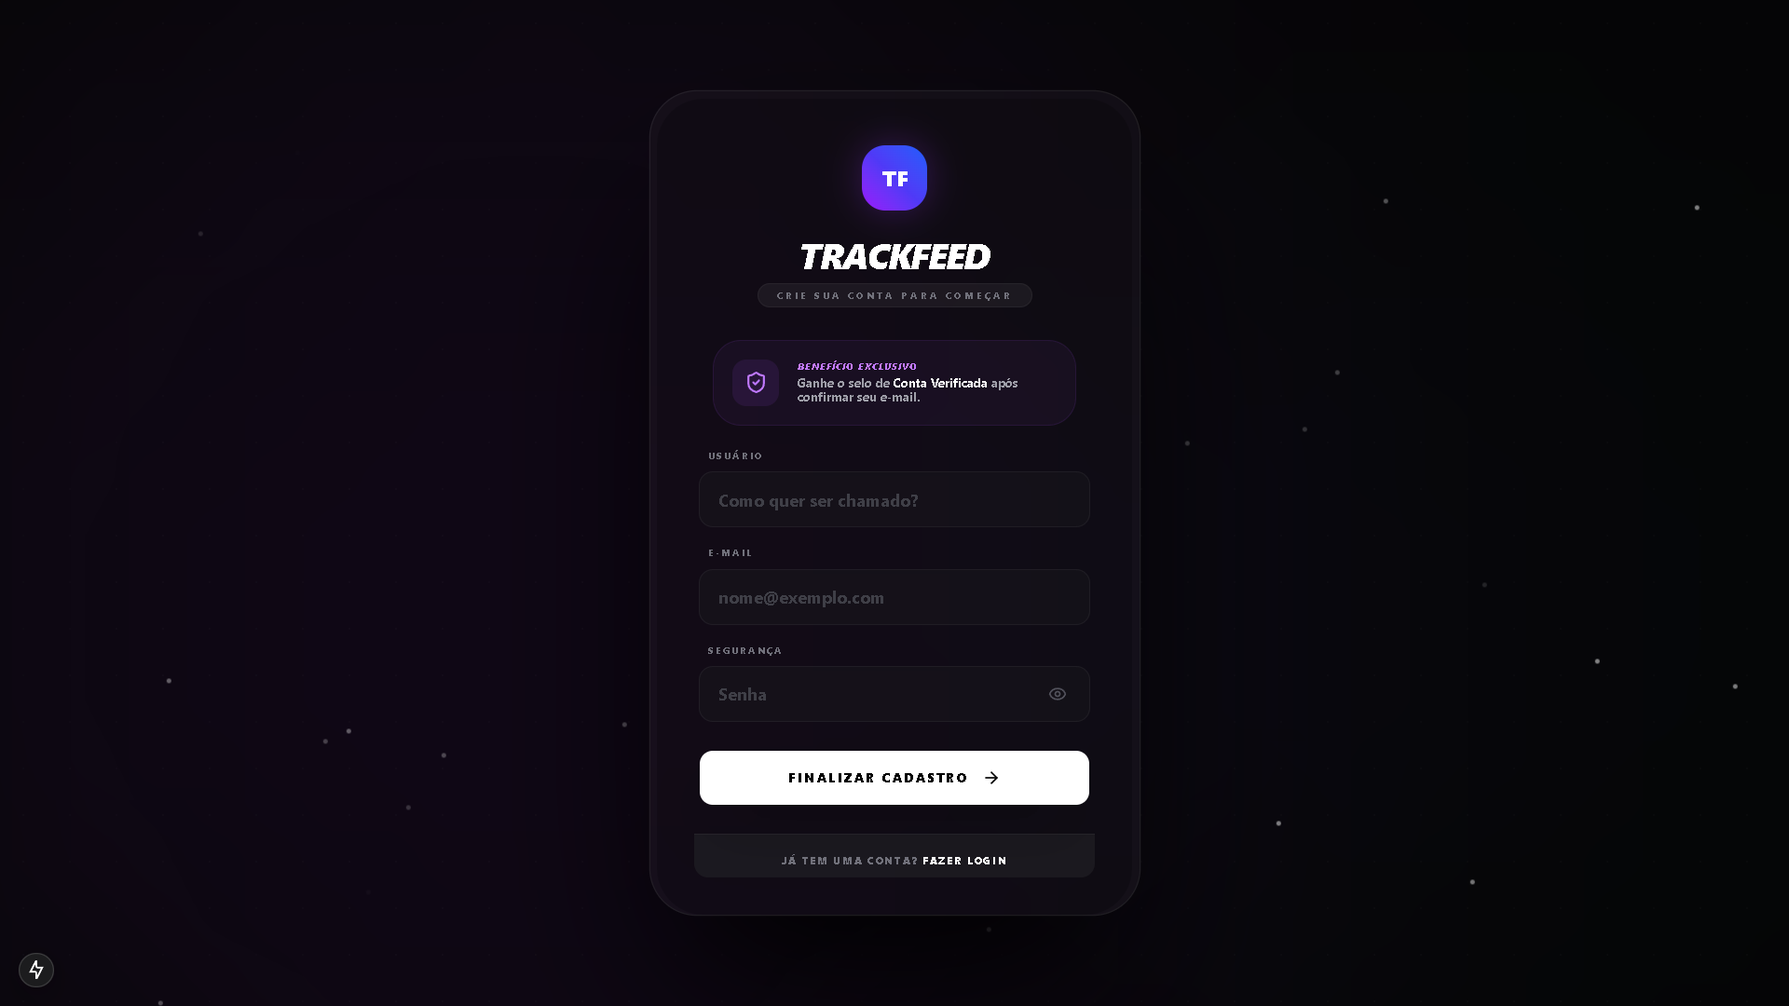
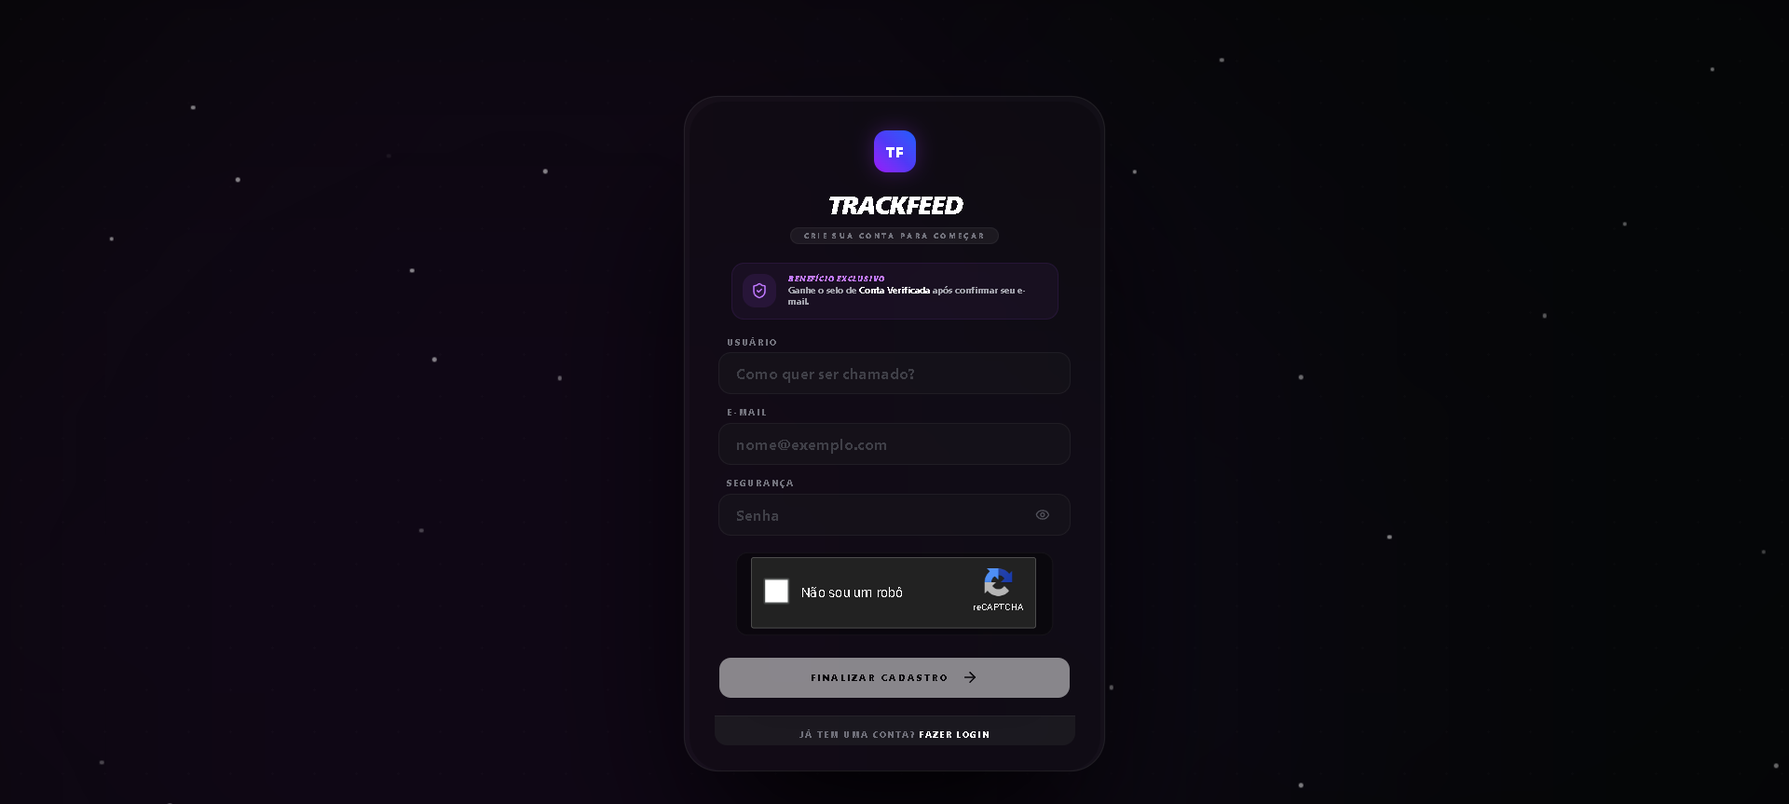
feat: TrackFeed v2.0 — reCAPTCHA responsivo, UX slim e persistência de grid
- [Forms] Compacta UI de Login e Cadastro para caber 100% na viewport sem scroll.
- [Segurança] Aplica escala global no iframe do reCAPTCHA evitando corte do botão "Verificar".
- [Feed] Resolve bug de reset de paginação ao favoritar, mantendo linhas do grid expandidas ativas via useRef.
- [Docs] Limpa assets obsoletos (usuario1.png) e atualiza prints no README.

diff --git a/src/app/register/page.tsx b/src/app/register/page.tsx
@@ -39,7 +39,7 @@ export default function RegisterPage() {
   const SITE_KEY = process.env.NEXT_PUBLIC_RECAPTCHA_SITE_KEY || "";
 
   return (
-    <div className="flex min-h-screen items-center justify-center bg-[#050505] p-6 relative overflow-hidden selection:bg-purple-500/30">
+    <div className="flex h-screen items-center justify-center bg-[#050505] p-6 relative overflow-hidden selection:bg-purple-500/30">
       <div className="fixed inset-0 bg-noise opacity-[0.03] pointer-events-none z-[100]" />
       
       {/* Cinematic Background */}
@@ -58,78 +58,78 @@ export default function RegisterPage() {
         <ThemeToggle />
       </div>
 
-      <Card className="w-full max-w-[420px] border-white/5 bg-white/[0.03] backdrop-blur-[60px] text-foreground relative z-10 shadow-[0_80px_150px_-30px_rgba(0,0,0,1)] rounded-[2.5rem] overflow-hidden border-t-white/10 p-1.5">
-        <div className="bg-black/20 rounded-[inherit] p-6 lg:p-8">
-          <CardHeader className="space-y-4 text-center pt-2 pb-5">
+      <Card className="w-full max-w-[400px] border-white/5 bg-white/[0.03] backdrop-blur-[60px] text-foreground relative z-10 shadow-[0_80px_150px_-30px_rgba(0,0,0,1)] rounded-[2rem] border-t-white/10 p-1">
+        <div className="bg-black/20 rounded-[inherit] p-5 lg:p-6">
+          <CardHeader className="space-y-2.5 text-center pt-1 pb-4">
             <div className="flex justify-center">
-              <div className="h-14 w-14 rounded-[1.25rem] bg-gradient-to-tr from-purple-600 via-indigo-600 to-blue-600 flex items-center justify-center font-black text-lg text-white shadow-[0_0_30px_rgba(147,51,234,0.3)]">
+              <div className="h-10 w-10 rounded-xl bg-gradient-to-tr from-purple-600 via-indigo-600 to-blue-600 flex items-center justify-center font-black text-sm text-white shadow-[0_0_20px_rgba(147,51,234,0.3)]">
                 TF
               </div>
             </div>
-            <div className="space-y-1">
-              <CardTitle className="text-3xl font-black tracking-tighter uppercase italic text-white">TrackFeed</CardTitle>
-              <CardDescription className="text-zinc-500 font-black uppercase text-[8px] tracking-[0.3em] bg-white/5 py-1 rounded-full border border-white/5 px-4 inline-block mx-auto">
+            <div className="space-y-0.5">
+              <CardTitle className="text-2xl font-black tracking-tighter uppercase italic text-white">TrackFeed</CardTitle>
+              <CardDescription className="text-zinc-500 font-black uppercase text-[7px] tracking-[0.3em] bg-white/5 py-0.5 rounded-full border border-white/5 px-3 inline-block mx-auto">
                 Crie sua conta para começar
               </CardDescription>
             </div>
             
             {/* INFORMATIVO DE VERIFICAÇÃO */}
-            <div className="mt-2 p-4 bg-purple-500/5 border border-purple-500/10 rounded-[1.5rem] flex items-center gap-4 animate-in fade-in slide-in-from-top-2 duration-1000">
-              <div className="h-10 w-10 rounded-xl bg-purple-500/10 flex items-center justify-center text-purple-400 shrink-0">
-                <ShieldCheck size={20} />
+            <div className="mt-1 p-2.5 bg-purple-500/5 border border-purple-500/10 rounded-xl flex items-center gap-3 animate-in fade-in slide-in-from-top-2 duration-1000">
+              <div className="h-8 w-8 rounded-lg bg-purple-500/10 flex items-center justify-center text-purple-400 shrink-0">
+                <ShieldCheck size={16} />
               </div>
               <div className="text-left">
-                <p className="text-[8px] font-black text-purple-400 uppercase tracking-widest leading-none mb-1 italic">Benefício exclusivo</p>
-                <p className="text-[10px] text-zinc-400 font-bold leading-tight">Ganhe o selo de <span className="text-white">Conta Verificada</span> após confirmar seu e-mail.</p>
+                <p className="text-[7px] font-black text-purple-400 uppercase tracking-widest leading-none mb-0.5 italic">Benefício exclusivo</p>
+                <p className="text-[9px] text-zinc-400 font-bold leading-tight">Ganhe o selo de <span className="text-white">Conta Verificada</span> após confirmar seu e-mail.</p>
               </div>
             </div>
           </CardHeader>
           
-          <form action={formAction} className="space-y-4 px-1">
+          <form action={formAction} className="space-y-3 px-1">
             {state?.error && (
-              <div className="flex items-center gap-3 p-4 text-[9px] font-black uppercase tracking-widest text-red-400 bg-red-500/10 border border-red-500/20 rounded-xl animate-in fade-in slide-in-from-top-4 italic">
-                <AlertCircle size={16} />
+              <div className="flex items-center gap-3 p-3 text-[9px] font-black uppercase tracking-widest text-red-400 bg-red-500/10 border border-red-500/20 rounded-xl animate-in fade-in slide-in-from-top-4 italic">
+                <AlertCircle size={14} />
                 {state.error}
               </div>
             )}
 
-            <div className="space-y-2 group">
+            <div className="space-y-1 group">
               <Label className="text-zinc-500 font-black uppercase text-[8px] tracking-[0.2em] px-2 group-focus-within:text-purple-400 transition-all">Usuário</Label>
               <Input 
                 id="name" name="name" type="text" 
                 defaultValue={state?.name || ""}
                 placeholder="Como quer ser chamado?" required 
-                className="h-12 bg-white/[0.03] border-white/5 text-white focus-visible:ring-purple-500/30 rounded-xl text-xs font-bold placeholder:text-zinc-700 transition-all shadow-inner px-4" 
+                className="h-10 bg-white/[0.03] border-white/5 text-white focus-visible:ring-purple-500/30 rounded-xl text-xs font-bold placeholder:text-zinc-700 transition-all shadow-inner px-4" 
               />
             </div>
 
-            <div className="space-y-2 group">
+            <div className="space-y-1 group">
               <Label className="text-zinc-500 font-black uppercase text-[8px] tracking-[0.2em] px-2 group-focus-within:text-purple-400 transition-all">E-mail</Label>
               <Input 
                 id="email" name="email" type="email" 
                 value={email}
                 onChange={(e) => setEmail(e.target.value)}
                 placeholder="nome@exemplo.com" required 
-                className="h-12 bg-white/[0.03] border-white/5 text-white focus-visible:ring-purple-500/30 rounded-xl text-xs font-bold placeholder:text-zinc-700 transition-all shadow-inner px-4" 
+                className="h-10 bg-white/[0.03] border-white/5 text-white focus-visible:ring-purple-500/30 rounded-xl text-xs font-bold placeholder:text-zinc-700 transition-all shadow-inner px-4" 
               />
             </div>
             
-            <div className="space-y-2 group">
+            <div className="space-y-1 group">
               <Label className="text-zinc-500 font-black uppercase text-[8px] tracking-[0.2em] px-2 group-focus-within:text-purple-400 transition-all">Segurança</Label>
               <div className="relative">
                 <Input 
                   id="password" name="password" type={showPassword ? "text" : "password"} required
                   placeholder="Senha"
-                  className="peer h-12 bg-white/[0.03] border-white/5 text-white focus-visible:ring-purple-500/30 pr-12 rounded-xl text-xs font-bold placeholder:text-zinc-700 transition-all shadow-inner px-4" 
+                  className="peer h-10 bg-white/[0.03] border-white/5 text-white focus-visible:ring-purple-500/30 pr-12 rounded-xl text-xs font-bold placeholder:text-zinc-700 transition-all shadow-inner px-4" 
                 />
                 <button type="button" onClick={() => setShowPassword(!showPassword)} className="absolute right-4 top-1/2 -translate-y-1/2 text-zinc-600 hover:text-white transition-all active:scale-90 outline-none p-1">
-                  {showPassword ? <EyeOff size={16} /> : <Eye size={16} />}
+                  {showPassword ? <EyeOff size={14} /> : <Eye size={14} />}
                 </button>
               </div>
             </div>
 
             {process.env.NODE_ENV === "production" && SITE_KEY && (
-              <div className="flex justify-center py-1.5 scale-90 select-none overflow-hidden rounded-xl bg-black/40 p-3 border border-white/5">
+              <div className="flex justify-center py-1 scale-90 select-none overflow-hidden rounded-xl bg-black/40 p-2 border border-white/5">
                 <ReCAPTCHA sitekey={SITE_KEY} onChange={(token) => setCaptchaToken(token)} theme="dark" />
                 <input type="hidden" name="g-recaptcha-response" value={captchaToken || ""} />
               </div>
@@ -138,17 +138,17 @@ export default function RegisterPage() {
             <Button 
               type="submit" 
               disabled={isPending || (process.env.NODE_ENV === "production" && SITE_KEY && !captchaToken)}
-              className="w-full h-12 bg-white text-black hover:bg-purple-600 hover:text-white font-black uppercase text-[10px] tracking-[0.2em] shadow-2xl transition-all hover:scale-[1.02] active:scale-95 disabled:opacity-50 rounded-xl group overflow-hidden mt-2"
+              className="w-full h-10 bg-white text-black hover:bg-purple-600 hover:text-white font-black uppercase text-[9px] tracking-[0.2em] shadow-2xl transition-all hover:scale-[1.02] active:scale-95 disabled:opacity-50 rounded-xl group overflow-hidden mt-1"
             >
               <div className="flex items-center gap-3">
                 <span>{isPending ? "Criando..." : "Finalizar Cadastro"}</span>
-                <ArrowRight size={16} className="transition-transform group-hover:translate-x-1" />
+                <ArrowRight size={14} className="transition-transform group-hover:translate-x-1" />
               </div>
             </Button>
           </form>
 
-          <CardFooter className="flex flex-col space-y-3 text-center mt-6 pt-4 border-t border-white/5 px-0 pb-2">
-            <p className="text-zinc-500 text-[9px] font-black uppercase tracking-[0.15em]">
+          <CardFooter className="flex flex-col space-y-3 text-center mt-4 pt-3 border-t border-white/5 px-0 pb-1">
+            <p className="text-zinc-500 text-[8px] font-black uppercase tracking-[0.15em]">
               Já tem uma conta?{" "}
               <Link href="/" className="text-white hover:text-purple-400 font-black transition-all hover:underline underline-offset-4">
                 Fazer Login

diff --git a/src/app/page.tsx b/src/app/page.tsx
@@ -41,7 +41,7 @@ function LoginContent() {
   const SITE_KEY = process.env.NEXT_PUBLIC_RECAPTCHA_SITE_KEY || "";
 
   return (
-    <div className="flex min-h-screen items-center justify-center bg-[#050505] p-6 relative overflow-hidden selection:bg-purple-500/30">
+    <div className="flex h-screen items-center justify-center bg-[#050505] p-6 relative overflow-hidden selection:bg-purple-500/30">
       <div className="fixed inset-0 bg-noise opacity-[0.03] pointer-events-none z-[100]" />
       
       {/* Cinematic Background */}
@@ -60,48 +60,48 @@ function LoginContent() {
         <ThemeToggle />
       </div>
 
-      <Card className="w-full max-w-[420px] border-white/5 bg-white/[0.03] backdrop-blur-[60px] text-foreground relative z-10 shadow-[0_80px_150px_-30px_rgba(0,0,0,1)] rounded-[2.5rem] overflow-hidden border-t-white/10 p-1.5">
-        <div className="bg-black/20 rounded-[inherit] p-6 lg:p-8">
-          <CardHeader className="space-y-4 text-center pt-2 pb-6">
+      <Card className="w-full max-w-[400px] border-white/5 bg-white/[0.03] backdrop-blur-[60px] text-foreground relative z-10 shadow-[0_80px_150px_-30px_rgba(0,0,0,1)] rounded-[2rem] border-t-white/10 p-1">
+        <div className="bg-black/20 rounded-[inherit] p-5 lg:p-6">
+          <CardHeader className="space-y-2.5 text-center pt-1 pb-4">
             <div className="flex justify-center">
-              <div className="h-14 w-14 rounded-[1.25rem] bg-gradient-to-tr from-purple-600 via-indigo-600 to-blue-600 flex items-center justify-center font-black text-lg text-white shadow-[0_0_30px_rgba(147,51,234,0.3)] animate-in zoom-in duration-1000">
+              <div className="h-10 w-10 rounded-xl bg-gradient-to-tr from-purple-600 via-indigo-600 to-blue-600 flex items-center justify-center font-black text-sm text-white shadow-[0_0_20px_rgba(147,51,234,0.3)] animate-in zoom-in duration-1000">
                 TF
               </div>
             </div>
-            <div className="space-y-1">
-              <CardTitle className="text-3xl font-black tracking-tighter uppercase italic text-white">TrackFeed</CardTitle>
-              <div className="flex items-center justify-center gap-2 text-[8px] font-black uppercase tracking-[0.3em] text-zinc-500">
-                <ShieldCheck size={12} className="text-purple-500" /> Secure Immersive Access
+            <div className="space-y-0.5">
+              <CardTitle className="text-2xl font-black tracking-tighter uppercase italic text-white">TrackFeed</CardTitle>
+              <div className="flex items-center justify-center gap-2 text-[7px] font-black uppercase tracking-[0.3em] text-zinc-500">
+                <ShieldCheck size={10} className="text-purple-500" /> Secure Immersive Access
               </div>
             </div>
           </CardHeader>
           
-          <form action={formAction} className="space-y-5">
+          <form action={formAction} className="space-y-3">
             {errorParam === "db_connection" && (
-              <div className="flex items-center gap-3 p-4 text-[9px] font-black uppercase tracking-widest text-amber-400 bg-amber-500/10 border border-amber-500/20 rounded-xl animate-in fade-in slide-in-from-top-4 italic">
-                <AlertCircle size={16} />
+              <div className="flex items-center gap-3 p-3 text-[9px] font-black uppercase tracking-widest text-amber-400 bg-amber-500/10 border border-amber-500/20 rounded-xl animate-in fade-in slide-in-from-top-4 italic">
+                <AlertCircle size={14} />
                 FALHA DE CONEXÃO: O Banco de Dados não respondeu a tempo. Tente novamente.
               </div>
             )}
 
             {state?.error && (
-              <div className="flex items-center gap-3 p-4 text-[9px] font-black uppercase tracking-widest text-red-400 bg-red-500/10 border border-red-500/20 rounded-xl animate-in fade-in slide-in-from-top-4 italic">
-                <AlertCircle size={16} />
+              <div className="flex items-center gap-3 p-3 text-[9px] font-black uppercase tracking-widest text-red-400 bg-red-500/10 border border-red-500/20 rounded-xl animate-in fade-in slide-in-from-top-4 italic">
+                <AlertCircle size={14} />
                 {state.error}
               </div>
             )}
 
-            <div className="space-y-2 group">
+            <div className="space-y-1 group">
               <Label className="text-zinc-500 font-black uppercase text-[8px] tracking-[0.2em] px-2 group-focus-within:text-purple-400 transition-all">Credenciais</Label>
               <Input 
                 id="identifier" name="identifier" type="text" 
                 defaultValue={state?.identifier || ""}
                 placeholder="E-mail ou Usuário" required 
-                className="h-12 bg-white/[0.03] border-white/5 text-white focus-visible:ring-purple-500/30 rounded-xl text-xs font-bold placeholder:text-zinc-700 transition-all shadow-inner px-4" 
+                className="h-10 bg-white/[0.03] border-white/5 text-white focus-visible:ring-purple-500/30 rounded-xl text-xs font-bold placeholder:text-zinc-700 transition-all shadow-inner px-4" 
               />
             </div>
             
-            <div className="space-y-2 group">
+            <div className="space-y-1 group">
               <div className="flex items-center justify-between px-2">
                 <Label className="text-zinc-500 font-black uppercase text-[8px] tracking-[0.2em] group-focus-within:text-purple-400 transition-all">Segurança</Label>
                 <Link href="/forgot-password" size="sm" className="text-[8px] font-black text-zinc-600 hover:text-white transition-all uppercase tracking-widest">Esqueceu?</Link>
@@ -110,16 +110,16 @@ function LoginContent() {
                 <Input 
                   id="password" name="password" type={showPassword ? "text" : "password"} required
                   placeholder="Sua senha secreta"
-                  className="peer h-12 bg-white/[0.03] border-white/5 text-white focus-visible:ring-purple-500/30 pr-12 rounded-xl text-xs font-bold placeholder:text-zinc-700 transition-all shadow-inner px-4" 
+                  className="peer h-10 bg-white/[0.03] border-white/5 text-white focus-visible:ring-purple-500/30 pr-12 rounded-xl text-xs font-bold placeholder:text-zinc-700 transition-all shadow-inner px-4" 
                 />
                 <button type="button" onClick={() => setShowPassword(!showPassword)} className="absolute right-4 top-1/2 -translate-y-1/2 text-zinc-600 hover:text-white transition-all active:scale-90 outline-none p-1">
-                  {showPassword ? <EyeOff size={16} /> : <Eye size={16} />}
+                  {showPassword ? <EyeOff size={14} /> : <Eye size={14} />}
                 </button>
               </div>
             </div>
 
             {process.env.NODE_ENV === "production" && SITE_KEY && (
-              <div className="flex justify-center py-1.5 scale-90 select-none overflow-hidden rounded-xl bg-black/40 p-3 border border-white/5">
+              <div className="flex justify-center py-1 scale-90 select-none overflow-hidden rounded-xl bg-black/40 p-2 border border-white/5">
                 <ReCAPTCHA sitekey={SITE_KEY} onChange={(token) => setCaptchaToken(token)} theme="dark" />
                 <input type="hidden" name="g-recaptcha-response" value={captchaToken || ""} />
               </div>
@@ -128,21 +128,21 @@ function LoginContent() {
             <Button 
               type="submit" 
               disabled={isPending || (process.env.NODE_ENV === "production" && SITE_KEY && !captchaToken)}
-              className="w-full h-12 bg-white text-black hover:bg-purple-600 hover:text-white font-black uppercase text-[10px] tracking-[0.2em] shadow-2xl transition-all hover:scale-[1.02] active:scale-95 disabled:opacity-50 rounded-xl group overflow-hidden"
+              className="w-full h-10 bg-white text-black hover:bg-purple-600 hover:text-white font-black uppercase text-[9px] tracking-[0.2em] shadow-2xl transition-all hover:scale-[1.02] active:scale-95 disabled:opacity-50 rounded-xl group overflow-hidden"
             >
               {isPending ? (
-                <div className="flex items-center gap-2"><Loader2 className="animate-spin" size={16} /><span>Sincronizando...</span></div>
+                <div className="flex items-center gap-2"><Loader2 className="animate-spin" size={14} /><span>Sincronizando...</span></div>
               ) : (
                 <div className="flex items-center gap-3">
                   <span>Entrar no Radar</span>
-                  <ArrowRight size={16} className="transition-transform group-hover:translate-x-1" />
+                  <ArrowRight size={14} className="transition-transform group-hover:translate-x-1" />
                 </div>
               )}
             </Button>
           </form>
 
-          <CardFooter className="flex flex-col space-y-3 text-center mt-6 pt-4 border-t border-white/5 px-0">
-            <p className="text-zinc-500 text-[9px] font-black uppercase tracking-[0.15em]">
+          <CardFooter className="flex flex-col space-y-3 text-center mt-4 pt-3 border-t border-white/5 px-0">
+            <p className="text-zinc-500 text-[8px] font-black uppercase tracking-[0.15em]">
               Novo por aqui?{" "}
               <Link href="/register" className="text-white hover:text-purple-400 font-black transition-all hover:underline underline-offset-4">
                 Criar conta

diff --git a/src/app/dashboard/DashboardClient.tsx b/src/app/dashboard/DashboardClient.tsx
@@ -184,28 +184,44 @@ export default function DashboardClient({
     };
   }, []);
 
-  const lastTabRef = useRef(currentFilters.tab);
+  const lastFiltersRef = useRef({
+    tab: currentFilters.tab,
+    query: currentFilters.q || currentFilters.query || "",
+    categories: JSON.stringify(currentFilters.categories),
+    lang: JSON.stringify(currentFilters.lang || currentFilters.languages),
+    page: currentFilters.page
+  });
 
   // SINCRONIZAÇÃO CRÍTICA: Atualiza a lista quando os dados do servidor mudam
   useEffect(() => {
-    const tabChanged = lastTabRef.current !== currentFilters.tab;
-    lastTabRef.current = currentFilters.tab;
+    const tabChanged = lastFiltersRef.current.tab !== currentFilters.tab;
+    const qChanged = lastFiltersRef.current.query !== (currentFilters.q || currentFilters.query || "");
+    const categoriesChanged = lastFiltersRef.current.categories !== JSON.stringify(currentFilters.categories);
+    const langChanged = lastFiltersRef.current.lang !== JSON.stringify(currentFilters.lang || currentFilters.languages);
+    const pageChanged = lastFiltersRef.current.page !== currentFilters.page;
 
-    if (currentFilters.page === 1 || tabChanged) {
+    // Atualiza o ref com os novos valores de filtro
+    lastFiltersRef.current = {
+      tab: currentFilters.tab,
+      query: currentFilters.q || currentFilters.query || "",
+      categories: JSON.stringify(currentFilters.categories),
+      lang: JSON.stringify(currentFilters.lang || currentFilters.languages),
+      page: currentFilters.page
+    };
+
+    const filtersChanged = tabChanged || qChanged || categoriesChanged || langChanged;
+
+    if (filtersChanged || pageChanged) {
       setNewsList(initialNews);
-      setVisibleRows(3);
+      if (filtersChanged) {
+        setVisibleRows(3);
+      }
     } else {
-      setNewsList(prev => {
-        const seen = new Set();
-        const combined = [...prev, ...initialNews];
-        return combined.filter(item => {
-          if (seen.has(item.url)) return false;
-          seen.add(item.url);
-          return true;
-        });
-      });
+      // Se os filtros não mudaram (ex: atualização silenciosa por leitura ou favoritar),
+      // atualizamos a lista de notícias mas PRESERVAMOS as linhas extras abertas pelo usuário!
+      setNewsList(initialNews);
     }
-  }, [initialNews, currentFilters.tab, currentFilters.page]);
+  }, [initialNews, currentFilters]);
 
   const updateFilters = (key: string, value: any) => {
     const params = new URLSearchParams(searchParams.toString());

diff --git a/src/app/globals.css b/src/app/globals.css
@@ -215,3 +215,11 @@
 .text-glow-accent {
   text-shadow: 0 0 20px var(--theme-accent);
 }
+
+/* Google reCAPTCHA Challenge Popup Scaling Fix */
+iframe[src*="recaptcha/api2/bframe"] {
+  transform: scale(0.8) !important;
+  -webkit-transform: scale(0.8) !important;
+  transform-origin: center !important;
+  -webkit-transform-origin: center !important;
+}

diff --git a/README.md b/README.md
@@ -40,14 +40,6 @@ Para garantir uma leitura limpa e elegante, organizamos as capturas de tela das 
 | ![Email Verification](./public/screenshots/escolha.png) | ![Dashboard Feed](./public/screenshots/feed.png) | ![User Profile](./public/screenshots/usuario0.png) |
 | *Segurança em duas etapas via código PIN por e-mail.* | *Dashboard imersivo com efeito Cyber-Glass e Hot News.* | *Edição de dados, senha, avatar e preferências.* |
 
-<br>
-
-<p align="center"><b>💡 Alertas de Alteração (UX Inteligente)</b></p>
-
-![Profile Save Suggestion](./public/screenshots/usuario1.png)
-
-<p align="center"><i>Avisos visuais inteligentes para modificações não salvas no perfil.</i></p>
-
 ---
 
 ## ✨ Funcionalidades "State-of-the-Art"
